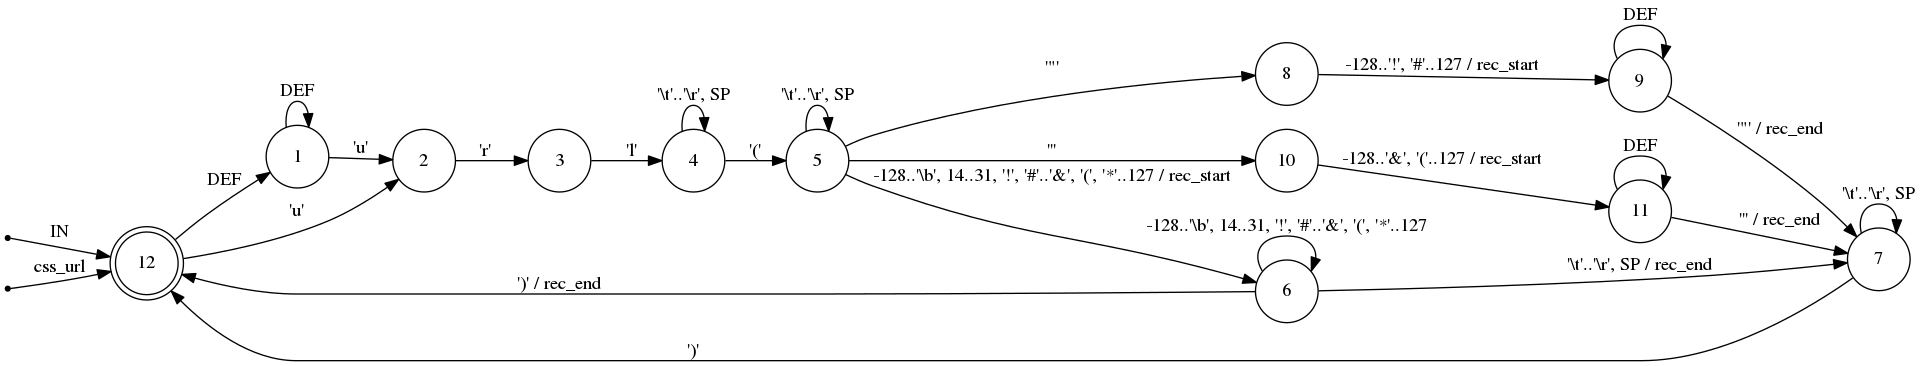
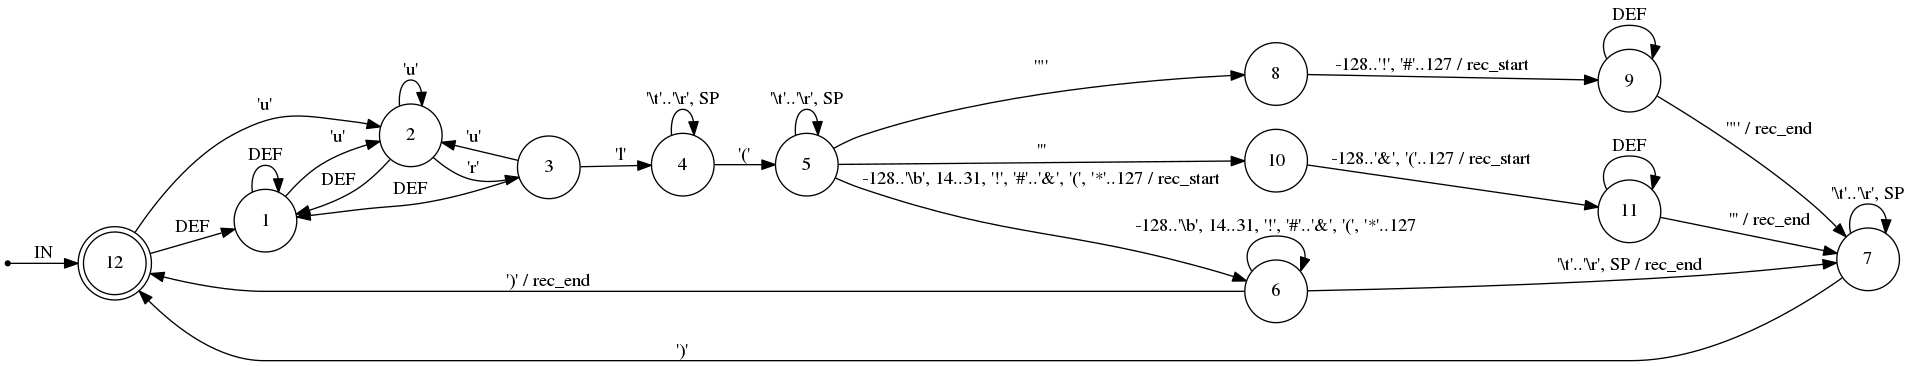
Preparing to merge state machines; ie, when html finds a style attribute, just have it call the css machine

diff --git a/src/parser/css.hpp b/src/parser/css.hpp
@@ -6,73 +6,77 @@ namespace cdnalizer {
 namespace parser {
 
 
-#line 9 "/home/ubuntu/projects/cdnalizer/src/parser/css.hpp.rl"
+#line 10 "/home/ubuntu/projects/cdnalizer/src/parser/css.hpp.rl"
 
 
 // State machine exports
 
 #line 15 "/home/ubuntu/projects/cdnalizer/src/parser/css.hpp"
 
-#line 13 "/home/ubuntu/projects/cdnalizer/src/parser/css.hpp.rl"
+#line 14 "/home/ubuntu/projects/cdnalizer/src/parser/css.hpp.rl"
 
 // State machine data
 
 #line 21 "/home/ubuntu/projects/cdnalizer/src/parser/css.hpp"
-static const char _css_url_actions[] = {
+static const char _css_impl_actions[] = {
 	0, 1, 0, 1, 1
 };
 
-static const char _css_url_key_offsets[] = {
-	0, 0, 1, 2, 3, 7, 13, 19, 
-	23, 24, 25, 26, 27
+static const char _css_impl_key_offsets[] = {
+	0, 0, 1, 3, 5, 9, 15, 21, 
+	25, 26, 27, 28, 29
 };
 
-static const char _css_url_trans_keys[] = {
-	117, 114, 108, 32, 40, 9, 13, 32, 
-	34, 39, 41, 9, 13, 32, 34, 39, 
-	41, 9, 13, 32, 41, 9, 13, 34, 
-	34, 39, 39, 117, 0
+static const char _css_impl_trans_keys[] = {
+	117, 114, 117, 108, 117, 32, 40, 9, 
+	13, 32, 34, 39, 41, 9, 13, 32, 
+	34, 39, 41, 9, 13, 32, 41, 9, 
+	13, 34, 34, 39, 39, 117, 0
 };
 
-static const char _css_url_single_lengths[] = {
-	0, 1, 1, 1, 2, 4, 4, 2, 
+static const char _css_impl_single_lengths[] = {
+	0, 1, 2, 2, 2, 4, 4, 2, 
 	1, 1, 1, 1, 1
 };
 
-static const char _css_url_range_lengths[] = {
+static const char _css_impl_range_lengths[] = {
 	0, 0, 0, 0, 1, 1, 1, 1, 
 	0, 0, 0, 0, 0
 };
 
-static const char _css_url_index_offsets[] = {
-	0, 0, 2, 4, 6, 10, 16, 22, 
-	26, 28, 30, 32, 34
+static const char _css_impl_index_offsets[] = {
+	0, 0, 2, 5, 8, 12, 18, 24, 
+	28, 30, 32, 34, 36
 };
 
-static const char _css_url_trans_targs[] = {
-	2, 1, 3, 0, 4, 0, 4, 5, 
-	4, 0, 5, 8, 10, 0, 5, 6, 
-	7, 0, 0, 12, 7, 6, 7, 12, 
-	7, 0, 0, 9, 7, 9, 0, 11, 
-	7, 11, 2, 1, 0
+static const char _css_impl_indicies[] = {
+	1, 0, 2, 1, 0, 3, 1, 0, 
+	3, 5, 3, 4, 5, 7, 8, 4, 
+	5, 6, 10, 4, 4, 11, 10, 9, 
+	12, 13, 12, 4, 4, 14, 10, 15, 
+	4, 16, 10, 17, 1, 0, 0
 };
 
-static const char _css_url_trans_actions[] = {
-	0, 0, 0, 0, 0, 0, 0, 0, 
-	0, 0, 0, 0, 0, 0, 0, 1, 
-	3, 0, 0, 3, 3, 0, 0, 0, 
-	0, 0, 0, 1, 3, 0, 0, 1, 
-	3, 0, 0, 0, 0
+static const char _css_impl_trans_targs[] = {
+	1, 2, 3, 4, 0, 5, 6, 8, 
+	10, 6, 7, 12, 7, 12, 9, 9, 
+	11, 11
 };
 
-static const int css_url_start = 12;
-static const int css_url_first_final = 12;
-static const int css_url_error = 0;
+static const char _css_impl_trans_actions[] = {
+	0, 0, 0, 0, 0, 0, 1, 0, 
+	0, 0, 3, 3, 0, 0, 1, 0, 
+	1, 0
+};
 
-static const int css_url_en_css_url = 12;
+static const int css_impl_start = 12;
+static const int css_impl_first_final = 12;
+static const int css_impl_error = 0;
+
+static const int css_impl_en_css_impl = 12;
 
 
-#line 16 "/home/ubuntu/projects/cdnalizer/src/parser/css.hpp.rl"
+#line 17 "/home/ubuntu/projects/cdnalizer/src/parser/css.hpp.rl"
 
 /// Parses some CSS, looking for url() functions
 /// @param A reference to the pointer to the start of the data. This will be incremented as our search continues
@@ -91,16 +95,16 @@ Iterator parseCSS(Iterator &p, const Iterator& pe,
 
   // State machine initialization
   
-#line 95 "/home/ubuntu/projects/cdnalizer/src/parser/css.hpp"
+#line 99 "/home/ubuntu/projects/cdnalizer/src/parser/css.hpp"
 	{
-	cs = css_url_start;
+	cs = css_impl_start;
 	}
 
-#line 34 "/home/ubuntu/projects/cdnalizer/src/parser/css.hpp.rl"
+#line 35 "/home/ubuntu/projects/cdnalizer/src/parser/css.hpp.rl"
 
   // State machine code
   
-#line 104 "/home/ubuntu/projects/cdnalizer/src/parser/css.hpp"
+#line 108 "/home/ubuntu/projects/cdnalizer/src/parser/css.hpp"
 	{
 	int _klen;
 	unsigned int _trans;
@@ -113,10 +117,10 @@ Iterator parseCSS(Iterator &p, const Iterator& pe,
 	if ( cs == 0 )
 		goto _out;
 _resume:
-	_keys = _css_url_trans_keys + _css_url_key_offsets[cs];
-	_trans = _css_url_index_offsets[cs];
+	_keys = _css_impl_trans_keys + _css_impl_key_offsets[cs];
+	_trans = _css_impl_index_offsets[cs];
 
-	_klen = _css_url_single_lengths[cs];
+	_klen = _css_impl_single_lengths[cs];
 	if ( _klen > 0 ) {
 		const char *_lower = _keys;
 		const char *_mid;
@@ -139,7 +143,7 @@ _resume:
 		_trans += _klen;
 	}
 
-	_klen = _css_url_range_lengths[cs];
+	_klen = _css_impl_range_lengths[cs];
 	if ( _klen > 0 ) {
 		const char *_lower = _keys;
 		const char *_mid;
@@ -162,12 +166,13 @@ _resume:
 	}
 
 _match:
-	cs = _css_url_trans_targs[_trans];
+	_trans = _css_impl_indicies[_trans];
+	cs = _css_impl_trans_targs[_trans];
 
-	if ( _css_url_trans_actions[_trans] == 0 )
+	if ( _css_impl_trans_actions[_trans] == 0 )
 		goto _again;
 
-	_acts = _css_url_actions + _css_url_trans_actions[_trans];
+	_acts = _css_impl_actions + _css_impl_trans_actions[_trans];
 	_nacts = (unsigned int) *_acts++;
 	while ( _nacts-- > 0 )
 	{
@@ -185,7 +190,7 @@ _match:
       path_found(css_start, p);
     }
 	break;
-#line 189 "/home/ubuntu/projects/cdnalizer/src/parser/css.hpp"
+#line 194 "/home/ubuntu/projects/cdnalizer/src/parser/css.hpp"
 		}
 	}
 
@@ -198,7 +203,7 @@ _again:
 	_out: {}
 	}
 
-#line 37 "/home/ubuntu/projects/cdnalizer/src/parser/css.hpp.rl"
+#line 38 "/home/ubuntu/projects/cdnalizer/src/parser/css.hpp.rl"
 
   return p;
 }
